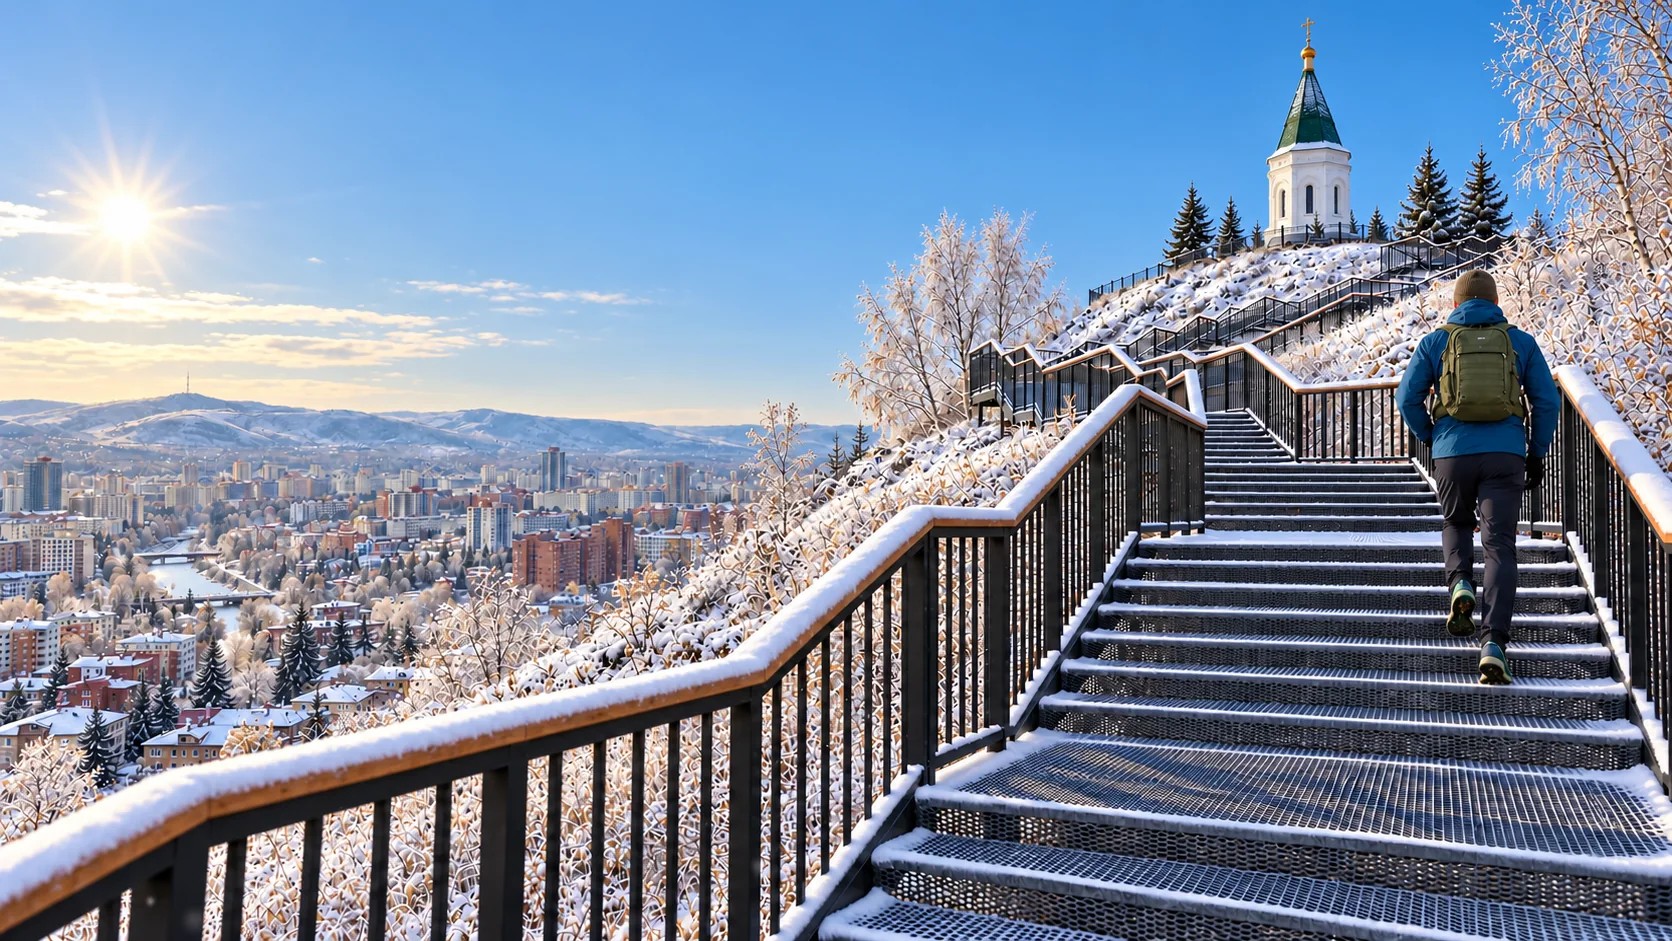
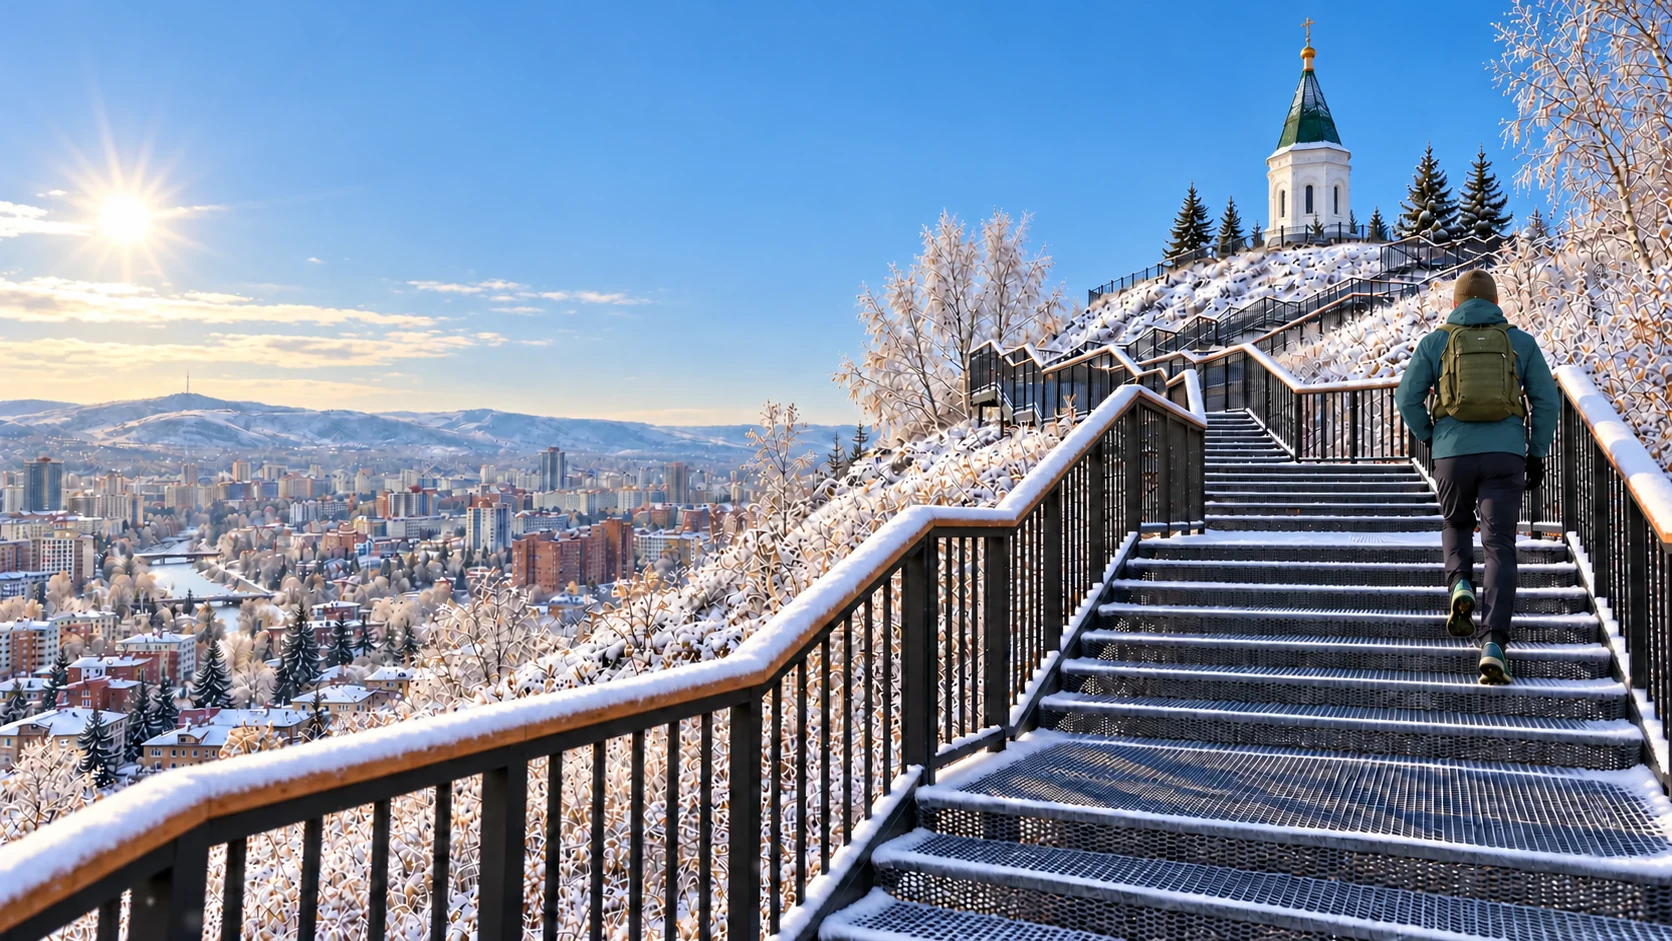
Match wardrobe colors to owner photos

diff --git a/app.js b/app.js
@@ -1,7 +1,7 @@
-import { CATEGORIES, includeCurrentConditions, recommendOutfit, summarizeForecast, weatherLabel } from './logic.mjs?v=8';
-import { PERSONAL_WARDROBE } from './wardrobe-defaults.mjs?v=6';
-import { selectHeroScene, weatherIconName } from './hero-scenes.mjs?v=8';
-import { selectMannequinPreset } from './mannequin-presets.mjs?v=8';
+import { CATEGORIES, includeCurrentConditions, recommendOutfit, summarizeForecast, weatherLabel } from './logic.mjs?v=9';
+import { PERSONAL_WARDROBE, refreshWardrobeColors } from './wardrobe-defaults.mjs?v=9';
+import { selectHeroScene, weatherIconName } from './hero-scenes.mjs?v=9';
+import { selectMannequinPreset } from './mannequin-presets.mjs?v=9';
 
 const ROUTE_PLACE = Object.freeze({
   name: 'Караульная гора · часовня',
@@ -18,6 +18,7 @@ const PERSONAL_SEED_KEY_V5 = 'na-vykhod:personal-seed:v5:2026-10-18';
 const PERSONAL_SEED_KEY_V6 = 'na-vykhod:personal-seed:v6:2026-10-18';
 const PERSONAL_SEED_KEY_V7 = 'na-vykhod:personal-seed:v7:2026-10-18';
 const PERSONAL_SEED_KEY_V8 = 'na-vykhod:personal-seed:v8:2026-10-18';
+const PERSONAL_SEED_KEY_V9 = 'na-vykhod:personal-seed:v9:2026-10-18';
 const PLACE_KEY = 'na-vykhod:place:v1';
 const ACTIVITY_KEY = 'na-vykhod:activity:v1';
 const SURFACE_KEY = 'na-vykhod:surface:v1';
@@ -112,7 +113,12 @@ function normalizeItem(raw) {
 const savedItems = storage.get(WARDROBE_KEY);
 function seedPersonalWardrobe(items) {
   const wardrobe = Array.isArray(items) ? items.map(normalizeItem).filter(Boolean) : [];
-  if (storage.get(PERSONAL_SEED_KEY_V8) === true) return wardrobe;
+  if (storage.get(PERSONAL_SEED_KEY_V9) === true) return wardrobe;
+  if (storage.get(PERSONAL_SEED_KEY_V8) === true) {
+    refreshWardrobeColors(wardrobe);
+    if (storage.set(WARDROBE_KEY, wardrobe)) storage.set(PERSONAL_SEED_KEY_V9, true);
+    return wardrobe;
+  }
   const hadV6 = storage.get(PERSONAL_SEED_KEY_V6) === true;
   const hadV4 = storage.get(PERSONAL_SEED_KEY_V4) === true;
   const defaults = PERSONAL_WARDROBE.map(normalizeItem).filter(Boolean);
@@ -162,8 +168,6 @@ function seedPersonalWardrobe(items) {
   }
   const colorHints = new Map([
     ['Джемпер half-zip GRI Винд', 'Тёмно-синий'],
-    ['Джемпер half-zip GRI Норд', 'Какао'],
-    ['Брюки мужские GRI Джеди', 'Тёмно-синие'],
     ['Шапка флисовая', 'Хаки'],
     ['ASICS GEL-FujiSetsu 3 G-TX', 'Чёрные с зелёными вставками и шнурками'],
     ['ASICS Gel-Sonoma 8', 'Чёрные с мятными вставками и шнурками'],
@@ -192,9 +196,9 @@ function seedPersonalWardrobe(items) {
     ['Джемпер half-zip GRI Винд', ['Тёмно-синий. Самый лёгкий из ваших джемперов; ветрозащиту модели стоит уточнить.',
       'Тёмно-синий. Тонкий флисовый джемпер, но ощутимо тёплый; самый лёгкий из ваших трёх джемперов по личной оценке. Ветрозащиту модели стоит уточнить.']],
     ['Джемпер half-zip GRI Норд', ['Какао. Средняя теплота по вашей оценке; флисовый средний слой.',
-      'Светлое какао, как кофе с молоком. Средняя теплота по вашей оценке; тонкий флисовый джемпер.']],
+      'Светлый бежево-серый меланж. Средняя теплота по вашей оценке; тонкий флисовый джемпер.']],
     ['Куртка для беговых лыж Nordway', ['Голубая. Самая тёплая из ваших курток; мембрана 3K/3K, в сильный дождь защита ограничена.',
-      'Яркая светло-синяя. Самая тёплая из ваших курток; мембрана 3K/3K, в сильный дождь защита ограничена.']],
+      'Ярко-синяя, кобальтового оттенка. Самая тёплая из ваших курток; мембрана 3K/3K, в сильный дождь защита ограничена.']],
     ['Джемпер флисовый Glissade', ['Светло-серый. Самый тёплый из ваших джемперов по личной оценке.',
       'Светло-серый, тонкий флис без пушистого ворса. Самый тёплый из ваших джемперов по личной оценке.']],
   ]);
@@ -202,6 +206,7 @@ function seedPersonalWardrobe(items) {
     const revision = revisedNotes.get(item.name);
     if (revision && item.notes === revision[0]) item.notes = revision[1];
   }
+  refreshWardrobeColors(wardrobe);
   if (storage.set(WARDROBE_KEY, wardrobe)) {
     storage.set(PERSONAL_SEED_KEY_V2, true);
     storage.set(PERSONAL_SEED_KEY_V3, true);
@@ -210,6 +215,7 @@ function seedPersonalWardrobe(items) {
     storage.set(PERSONAL_SEED_KEY_V6, true);
     storage.set(PERSONAL_SEED_KEY_V7, true);
     storage.set(PERSONAL_SEED_KEY_V8, true);
+    storage.set(PERSONAL_SEED_KEY_V9, true);
   }
   return wardrobe;
 }
@@ -248,11 +254,11 @@ function renderHeroWeather(metrics) {
   }
   if (hero && hero.dataset.scene !== asset) {
     const request = ++heroImageRequest;
-    const fallbackUrl = `assets/${fallback}.webp?v=8`;
+    const fallbackUrl = `assets/${fallback}.webp?v=9`;
     hero.dataset.scene = asset;
     hero.style.setProperty('--hero-scene', `url("${fallbackUrl}")`);
     if (asset !== fallback) {
-      const source = `assets/${asset}.webp?v=8`;
+      const source = `assets/${asset}.webp?v=9`;
       const image = new Image();
       image.onload = () => {
         if (request === heroImageRequest) hero.style.setProperty('--hero-scene', `url("${source}")`);
@@ -505,7 +511,7 @@ function renderHeroOutfit(result, metrics, outlookCode) {
     const imageName = entry.item && ITEM_IMAGES.get(entry.item.name);
     if (imageName) {
       const image = document.createElement('img');
-      image.src = `assets/items/${imageName}?v=7`;
+      image.src = `assets/items/${imageName}?v=9`;
       image.alt = '';
       image.loading = 'lazy';
       image.decoding = 'async';
@@ -556,7 +562,7 @@ function renderLook(result, metrics) {
   figure.dataset.preset = preset;
   const image = document.createElement('img');
   image.className = 'mannequin-photo';
-  image.src = `assets/${preset}.webp?v=8`;
+  image.src = `assets/${preset}.webp?v=9`;
   image.alt = 'Реалистичная иллюстрация одетого манекена по выбранной погоде';
   image.width = 800;
   image.height = 1100;
@@ -564,7 +570,7 @@ function renderLook(result, metrics) {
   image.decoding = 'async';
   image.onerror = () => {
     image.onerror = null;
-    image.src = 'assets/mannequin-wet-zero.webp?v=8';
+    image.src = 'assets/mannequin-wet-zero.webp?v=9';
   };
   figure.append(image);
   const roles = {
@@ -634,7 +640,7 @@ function renderWardrobe() {
       const media = document.createElement('div');
       media.className = 'wardrobe-item__media';
       const image = document.createElement('img');
-      image.src = `assets/items/${imageName}?v=5`;
+      image.src = `assets/items/${imageName}?v=9`;
       image.alt = `Иллюстрация: ${item.name}`;
       image.loading = 'lazy';
       image.decoding = 'async';

diff --git a/styles.css b/styles.css
@@ -308,7 +308,7 @@ body { background: #fff; color: var(--ink); font-family: Arial, Helvetica, sans-
 .route-note span { color: var(--accent); }
 .hero-link { display: inline-flex; gap: 42px; align-items: center; margin-top: 28px; padding: 13px 18px; color: white; background: #15171a; border: 0; font-size: 13px; font-weight: 600; }
 .hero-link:hover { color: white; background: var(--accent); }
-.hero-art { position: absolute; z-index: 1; top: 0; right: calc((min(100vw - 64px, 1440px) - 100vw) / 2); bottom: 0; width: 70vw; height: 100%; overflow: hidden; border-radius: 0; box-shadow: none; background-color: #dfe2e7; background-image: linear-gradient(90deg, #e8e9eb 0%, rgba(232,233,235,.88) 18%, rgba(232,233,235,.15) 48%, rgba(232,233,235,0) 100%), var(--hero-scene, url("assets/hero-cloud.webp")); background-position: center, center right; background-size: cover; }
+.hero-art { position: absolute; z-index: 1; top: 0; right: calc((min(100vw - 64px, 1440px) - 100vw) / 2); bottom: 0; width: 70vw; height: 100%; overflow: hidden; border-radius: 0; box-shadow: none; background-color: #dfe2e7; background-image: linear-gradient(90deg, #e8e9eb 0%, rgba(232,233,235,.88) 18%, rgba(232,233,235,.15) 48%, rgba(232,233,235,0) 100%), var(--hero-scene, url("assets/hero-cloud.webp?v=9")); background-position: center, center right; background-size: cover; }
 .hero-art-label { top: 30px; right: 34px; left: auto; text-align: right; color: #282b30; font-size: 10px; letter-spacing: .14em; }
 .hero-art-label span { font-size: 9px; }
 .art-coordinate { right: 34px; bottom: 31px; color: #333840; font-size: 9px; }
@@ -454,7 +454,7 @@ select:focus, .form-field input:focus, .form-field textarea:focus { border-color
   .hero-copy { width: min(100%, 580px); padding: 54px 0 0; }
   .hero h1 { font-size: clamp(60px, 11vw, 84px); }
   .hero-copy > p:not(.route-note) { max-width: 390px; font-size: 15px; }
-  .hero-art { top: auto; bottom: 0; right: -16px; width: calc(100% + 32px); height: 330px; background-image: linear-gradient(180deg, #e8e9eb 0%, rgba(232,233,235,0) 32%), var(--hero-scene, url("assets/hero-cloud.webp")); background-position: center, center right; }
+  .hero-art { top: auto; bottom: 0; right: -16px; width: calc(100% + 32px); height: 330px; background-image: linear-gradient(180deg, #e8e9eb 0%, rgba(232,233,235,0) 32%), var(--hero-scene, url("assets/hero-cloud.webp?v=9")); background-position: center, center right; }
   .hero-art-label { top: 36px; }
   .hero:after { bottom: 9px; left: 16px; }
   .planner-section { padding-top: 65px; padding-bottom: 75px; }
@@ -549,7 +549,7 @@ select:focus, .form-field input:focus, .form-field textarea:focus { border-color
 .hero-copy > p:not(.route-note) { max-width: 390px; font-size: 15px; line-height: 1.48; }
 .route-note { max-width: 400px; margin-top: 18px; font-size: 11px; }
 .hero-link { margin-top: 20px; }
-.hero-art { position: relative; top: auto; right: auto; bottom: auto; width: 100%; height: 100%; min-height: 450px; background-image: var(--hero-scene, url("assets/hero-cloud.webp")); background-position: center right; background-size: cover; }
+.hero-art { position: relative; top: auto; right: auto; bottom: auto; width: 100%; height: 100%; min-height: 450px; background-image: var(--hero-scene, url("assets/hero-cloud.webp?v=9")); background-position: center right; background-size: cover; }
 .hero-art-label { top: 20px; right: auto; left: 20px; padding: 6px 8px; text-align: left; background: rgba(255,255,255,.82); }
 .art-coordinate { right: 16px; bottom: 16px; padding: 5px 7px; color: #20242a; background: rgba(255,255,255,.75); }
 .hero-art-accent, .hero:after { display: none; }

diff --git a/index.html b/index.html
@@ -7,9 +7,9 @@
     <meta name="description" content="Подберите одежду для пробежки или похода на Караульную гору по погоде и вещам из своего гардероба.">
     <title>На выход — как одеться сегодня</title>
     <link rel="icon" type="image/svg+xml" href="assets/favicon.svg">
-    <link rel="stylesheet" href="styles.css?v=8">
-    <link rel="stylesheet" href="mannequin-look.css?v=8">
-    <script type="module" src="./app.js?v=8"></script>
+    <link rel="stylesheet" href="styles.css?v=9">
+    <link rel="stylesheet" href="mannequin-look.css?v=9">
+    <script type="module" src="./app.js?v=9"></script>
   </head>
   <body>
     <a class="skip-link" href="#planner">Перейти к подбору одежды</a>

diff --git a/README.md b/README.md
@@ -12,7 +12,7 @@
 - Даёт два списка: что надеть и что взять в рюкзак. Если нужной вещи нет в гардеробе, показывает это явно.
 - Показывает в конце страницы реалистичный одетый манекен с выносками. Фото выбирается по типу комплекта и погоде; точные рекомендованные вещи указаны в выносках и списке рядом. Иллюстрация передаёт силуэт и цвет, отдельные детали вещей могут отличаться. При походе виден оливковый рюкзак Baselard.
 - Подбирает одну из 13 заглавных иллюстраций маршрута по погоде и температуре, включая жару до +40 °C и мороз до −40 °C. Под иллюстрацией показывает именно выбранные алгоритмом вещи; так погодные сцены сочетаются с разными комплектами без отдельной фотографии для каждой комбинации. При экстремальной жаре или морозе советует перенести выход. На иллюстрациях показаны лестница с металлическим каркасом и деревянными перилами, часовня наверху и мост через Качу внизу города.
-- Содержит стартовый список из 24 вещей владельца, включая три пары обуви, два баффа и аксессуары. Четыре куртки расположены по личной оценке теплоты: ветровка Uniqlo, мембрана Northland, софтшелл, лыжная Nordway. Джемперы расположены от менее тёплого к более тёплому: Винд, Норд, Glissade; Винд тоже флисовый и сам по себе ощутимо тёплый. Около нуля для подъёма приложение предлагает Винд первым слоем и мембрану; в более сильный холод добавляет термобельё. У джемперов Винд и Норд можно выключить свойство «Можно надевать первым слоем», если личный опыт подсказывает другую схему. Вещи показаны оригинальными иллюстрациями в едином стиле: изображения передают тип предмета и сообщённый цвет, но точный фасон может отличаться. Изменения гардероба сохраняются в браузере. Для переноса на другое устройство есть выгрузка и загрузка JSON.
+- Содержит стартовый список из 24 вещей владельца, включая три пары обуви, два баффа и аксессуары. Четыре куртки расположены по личной оценке теплоты: ветровка Uniqlo, мембрана Northland, софтшелл, лыжная Nordway. Джемперы расположены от менее тёплого к более тёплому: Винд, Норд, Glissade; Винд тоже флисовый и сам по себе ощутимо тёплый. Около нуля для подъёма приложение предлагает Винд первым слоем и мембрану; в более сильный холод добавляет термобельё. У джемперов Винд и Норд можно выключить свойство «Можно надевать первым слоем», если личный опыт подсказывает другую схему. Вещи показаны оригинальными иллюстрациями в едином стиле: изображения передают тип предмета и цвета, уточнённые по фотографиям владельца, но точный фасон может отличаться. Изменения гардероба сохраняются в браузере. Для переноса на другое устройство есть выгрузка и загрузка JSON.
 
 Приложение работает без серверной части, сборки и ключей API. Погодные данные — [Open-Meteo](https://open-meteo.com/en/docs). Бесплатный доступ к API рассчитан на некоммерческое использование; действуют [условия и лимиты](https://open-meteo.com/en/terms). Прогноз — модельная оценка: на открытой вершине ветер может быть сильнее.
 
